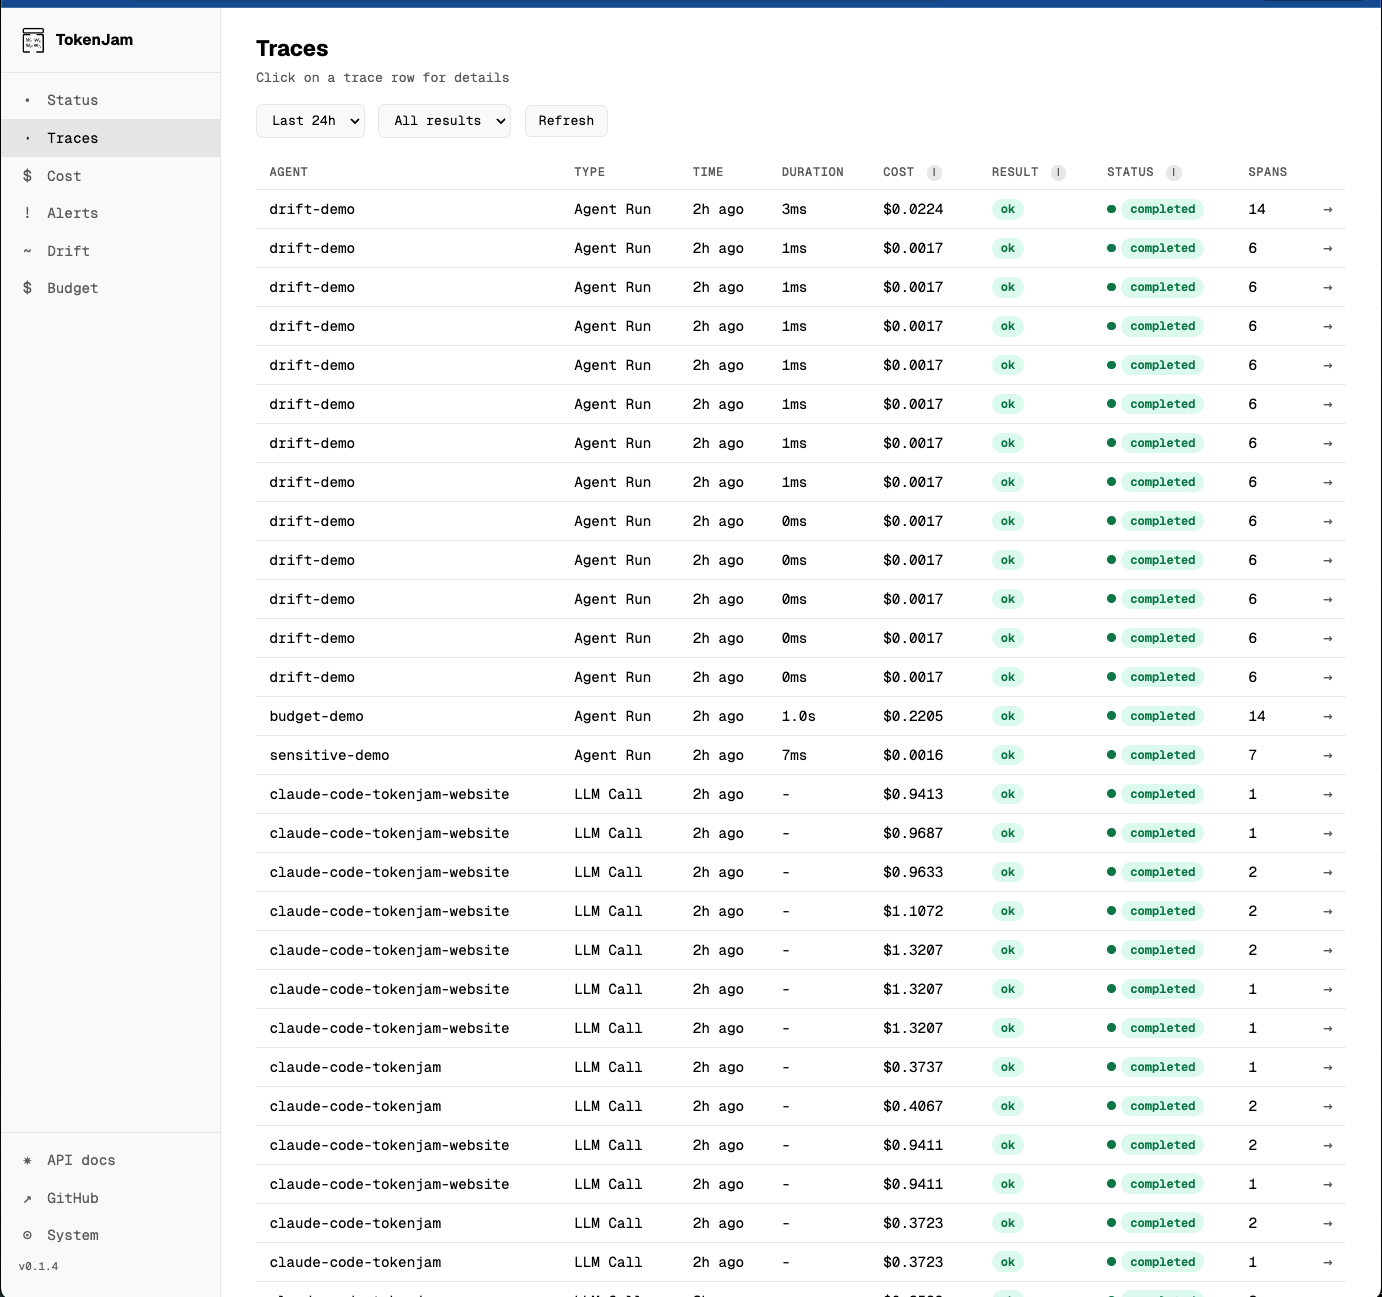
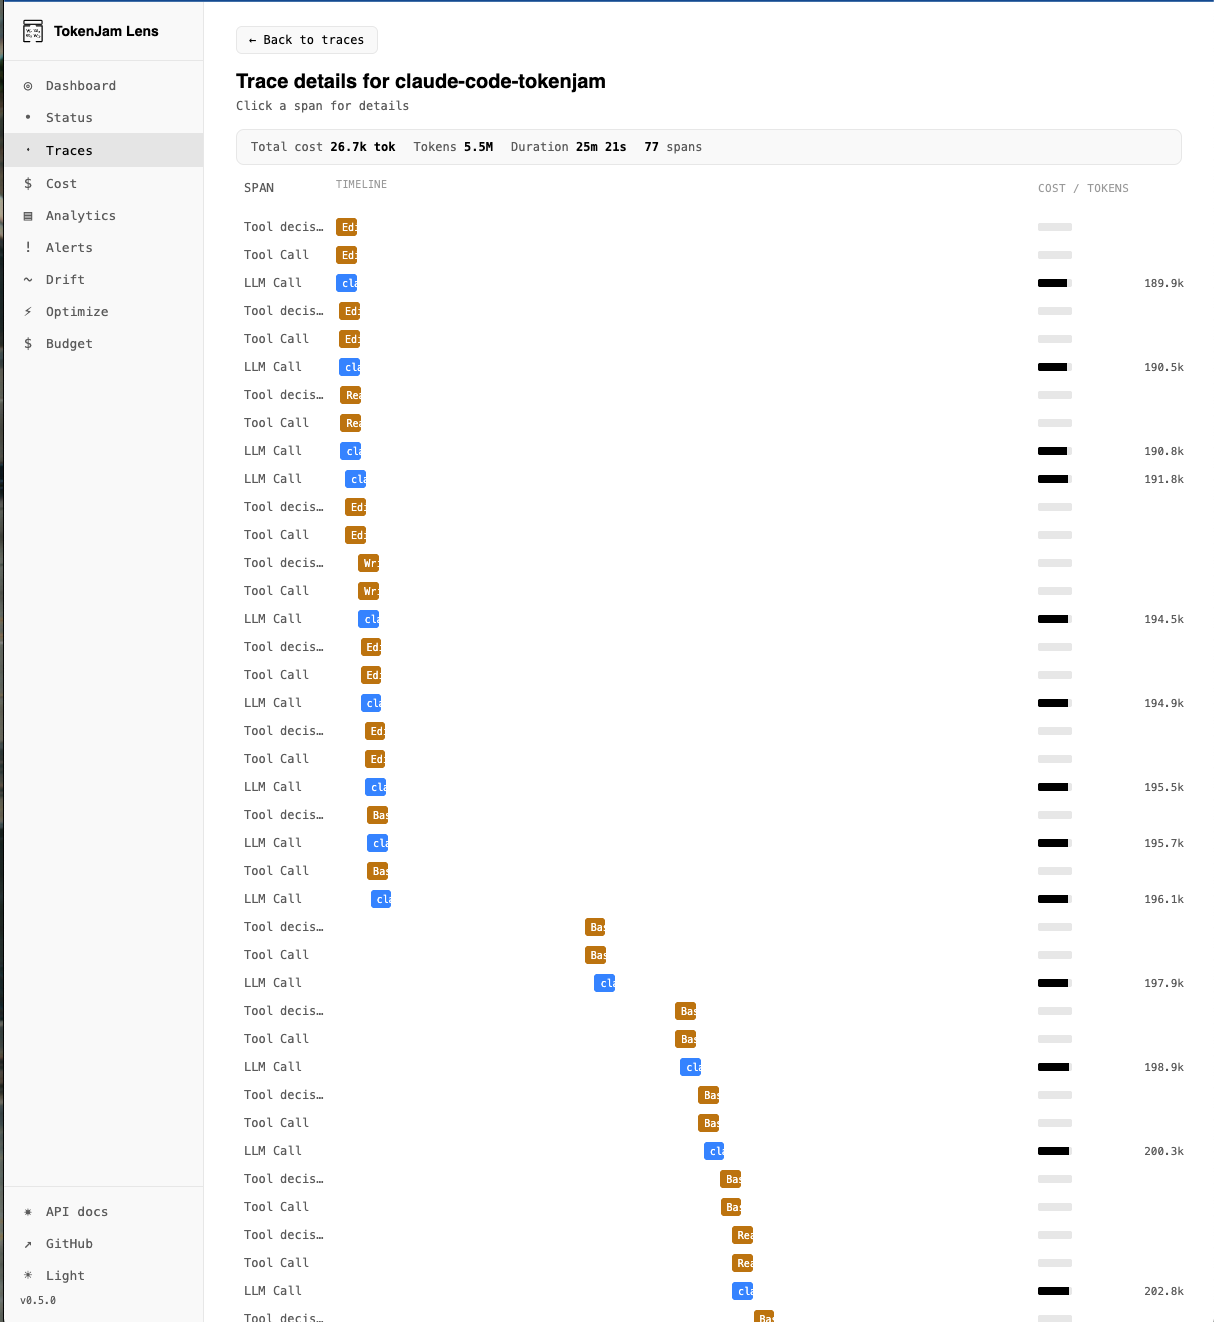
docs: refresh Lens screenshots for the merged Dashboard (6 screens)
Replace the four 0.4.x Lens screenshots with six current captures: the
new merged Dashboard (the default screen — recoverable waste + health +
embedded explorer), Cost (spend + cache savings), the session-level trace
waterfall, Status cards, and two explorer views (tool-usage and
cost-by-model leaderboards). Update the section intro to describe the
Dashboard instead of the retired Overview/Optimize-tab split, and drop
the now-unreferenced tj-alerts.png.

Claude-Session: https://claude.ai/code/session_015e3DZGhb1R5sXX2x52Y2Ar

diff --git a/README.md b/README.md
@@ -145,16 +145,20 @@ def run(task: str) -> str:
 
 ## Lens — the local dashboard
 
-`tj serve` runs Lens at `http://127.0.0.1:7391/`: an Overview triage screen with spend, recoverable waste, and health at a glance; an Optimize tab showing every analyzer's findings side by side; and the standard Status, Traces, Cost, Alerts, Drift, and Budget screens. Plan-tier-aware, fully offline, no signup.
+`tj serve` runs Lens at `http://127.0.0.1:7391/`: a **Dashboard** that lands you on recoverable waste and health at a glance, with an embedded explorer to slice your usage any way (metric × dimension × chart); plus Status, Traces, Cost, Analytics, Alerts, Drift, Optimize, and Budget screens. Plan-tier-aware, fully offline, no signup.
 
 <table>
 <tr>
-<td width="50%"><img src="docs/screenshots/tj-status.png" alt="Status screen" /></td>
-<td width="50%"><img src="docs/screenshots/tj-cost.png" alt="Cost screen with spend-over-time chart" /></td>
+<td width="50%"><img src="docs/screenshots/tj-dashboard.png" alt="Dashboard — recoverable waste, health at a glance, and the embedded pivot explorer" /></td>
+<td width="50%"><img src="docs/screenshots/tj-cost.png" alt="Cost — spend over time + cache savings" /></td>
 </tr>
 <tr>
-<td width="50%"><img src="docs/screenshots/tj-traces.png" alt="Traces table" /></td>
-<td width="50%"><img src="docs/screenshots/tj-alerts.png" alt="Alerts table" /></td>
+<td width="50%"><img src="docs/screenshots/tj-traces.png" alt="Trace waterfall — session-level spans with cost annotations" /></td>
+<td width="50%"><img src="docs/screenshots/tj-status.png" alt="Status — per-agent cards" /></td>
+</tr>
+<tr>
+<td width="50%"><img src="docs/screenshots/tj-dashboard-tools.png" alt="Analytics explorer — tool-usage leaderboard" /></td>
+<td width="50%"><img src="docs/screenshots/tj-dashboard-leaderboard.png" alt="Analytics explorer — cost-by-model leaderboard" /></td>
 </tr>
 </table>
 